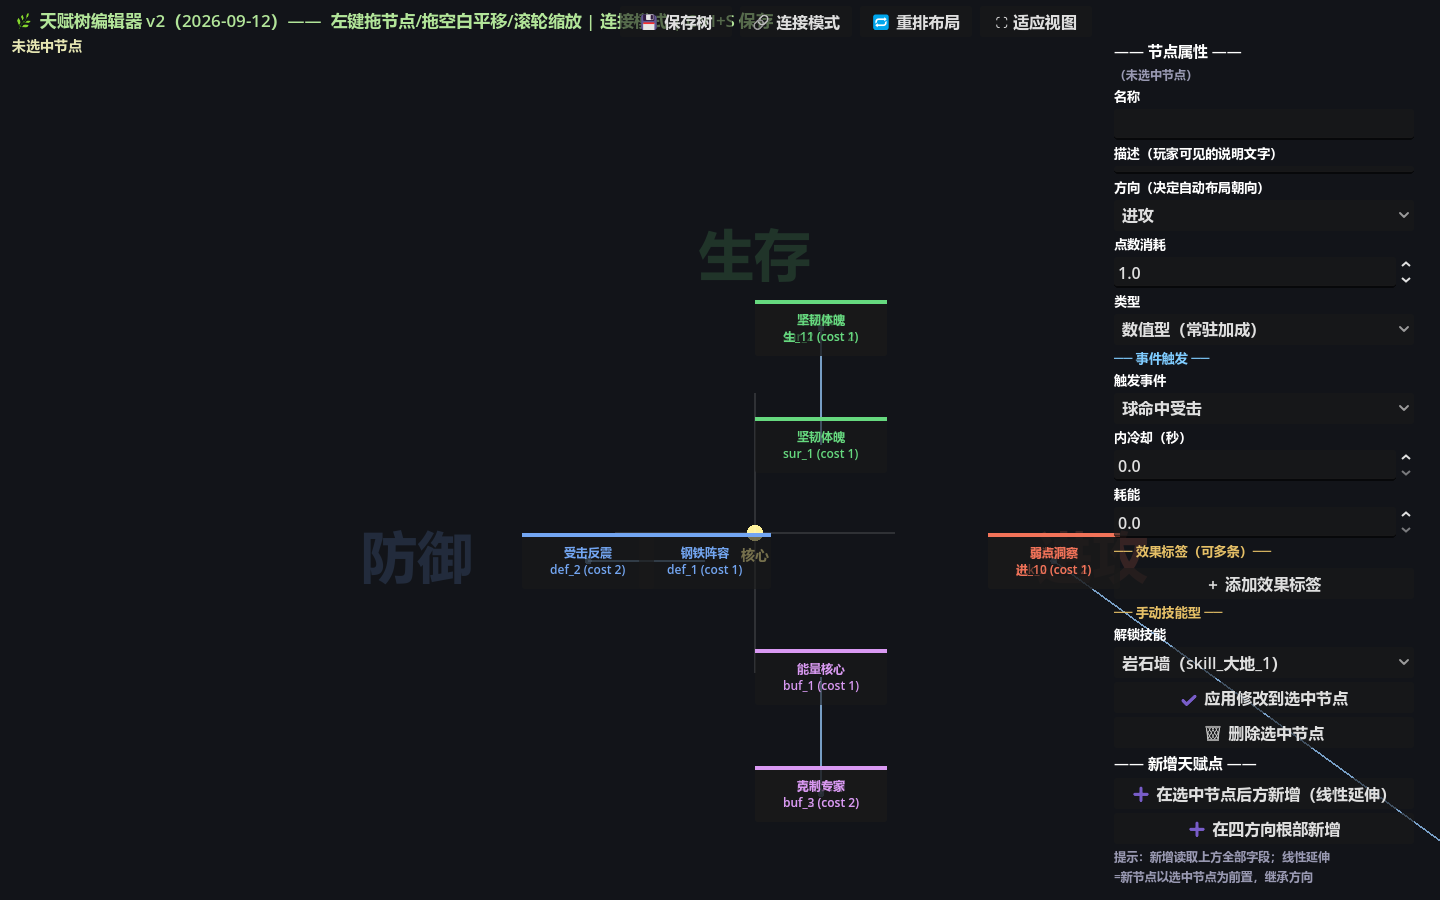
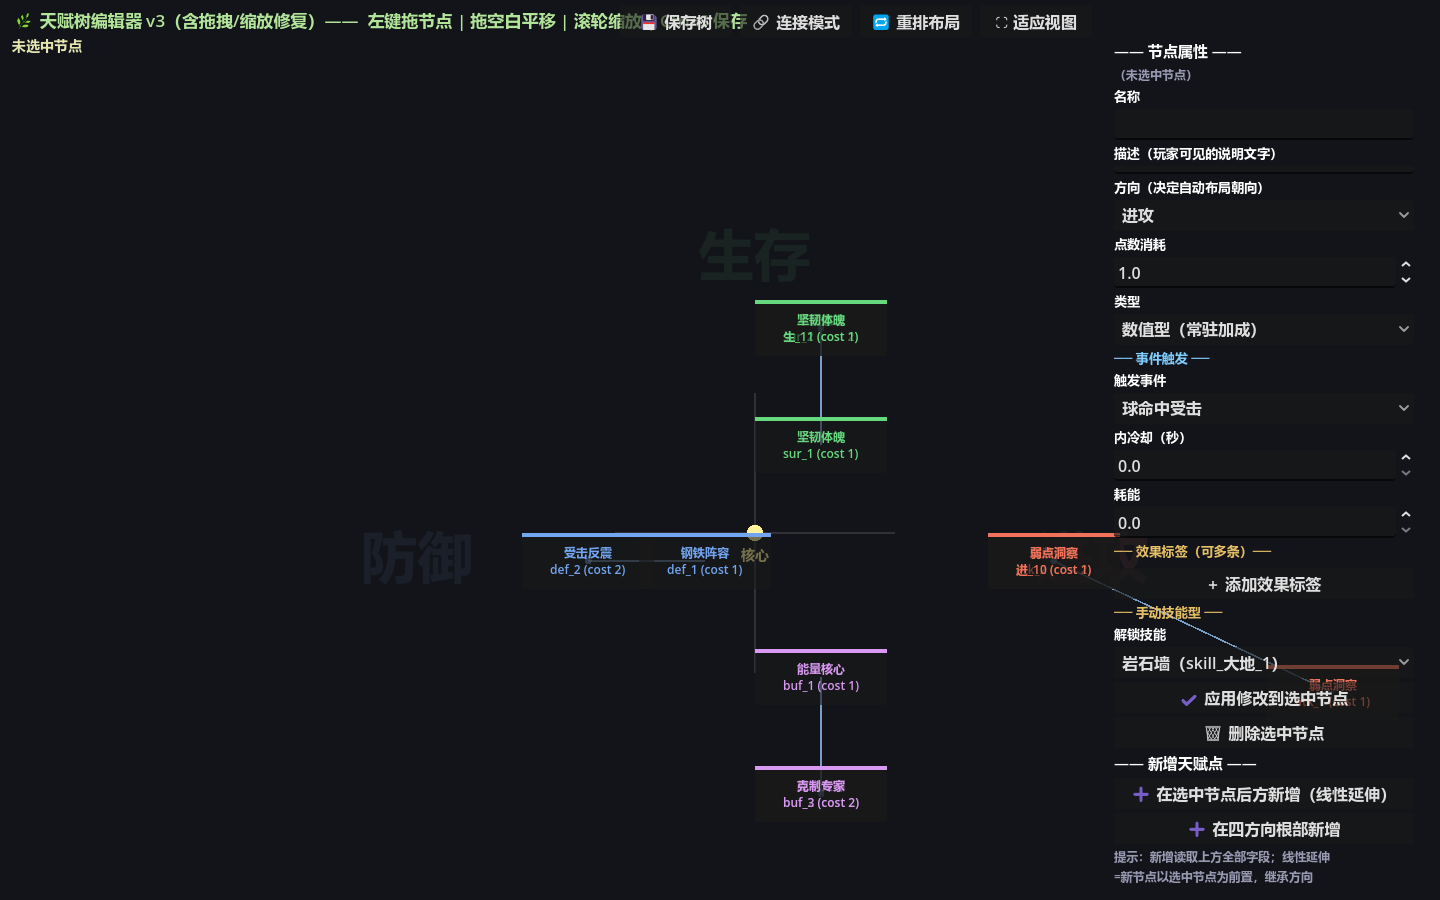
fix: 拖拽偏移量符号反了——向拖动方向瞬移一大格的真凶
- offset=按下时(卡片-鼠标)，跟随公式应为 鼠标+offset（原写成 鼠标-offset=跳到鼠标+抓取距离）
- 逐帧追踪：修复前第一步跳91px，修复后19px（=步长+取整），严格跟手
- 坐标统一回归 event.position（get_global_mouse_position 读实时光标，快速拖动不同步=跳变源）
- 四方向大字水印调淡 0.08（根部旁不误认为节点内容）
- 八项交互测试全 PASS

Changed region(s): [[0.125, 0.0, 0.5312, 0.0311], [0.875, 0.7156, 0.9688, 0.7778]]

diff --git a/工作日志/2026-09-11.md b/工作日志/2026-09-11.md
@@ -418,3 +418,13 @@
 - 合成输入加"松手后 1.5s 防回跳"断言：位移 0.00px PASS——当前代码拖拽/缩放/对轴全部数学正确
 - **强怀疑：主人跑的是旧构建**（Godot 编辑器运行实例不会自动热重载脚本改动）
 - **对策**：编辑器标题加版本标记"v2（2026-09-12）+新操作说明"——主人打开后看标题即知是否新代码；若仍是旧标题=需停止运行重开（或编辑器里 项目→重新加载当前项目）
+
+### 44. 拖动瞬移真凶落网：偏移量符号反了（主人 v3 实测反馈）
+
+- **逐帧追踪定位**：快速右拖 20 步采样，修复前第一步跳 91px——数学实锤
+- **根因**：`_drag_offset = 按下时(卡片位置-鼠标位置)`（抓取点偏移，正确），但跟随公式写成 `卡片位置 = 鼠标 - offset`（错误）→ 等价于跳到"鼠标位置+按下时鼠标到卡片距离"= 往移动方向瞬移一大格
+- **修复**：`卡片位置 = 鼠标 + offset`
+- **坐标系统一**：拖拽/平移/缩放全回归 event.position（_input 阶段已是内容系；此前改用的 get_global_mouse_position 读实时光标，合成事件/快速拖动下不同步=跳变来源，已撤销）
+- 修复后最大单步跳变 19px（=步长 18px+取整）——严格跟手
+- "选中根部节点出现新增内容"定性：是四方向大字水印（世界层装饰）恰在根部旁——已调淡 0.16→0.08，且渲染在卡片下层
+- 八项交互测试全 PASS
